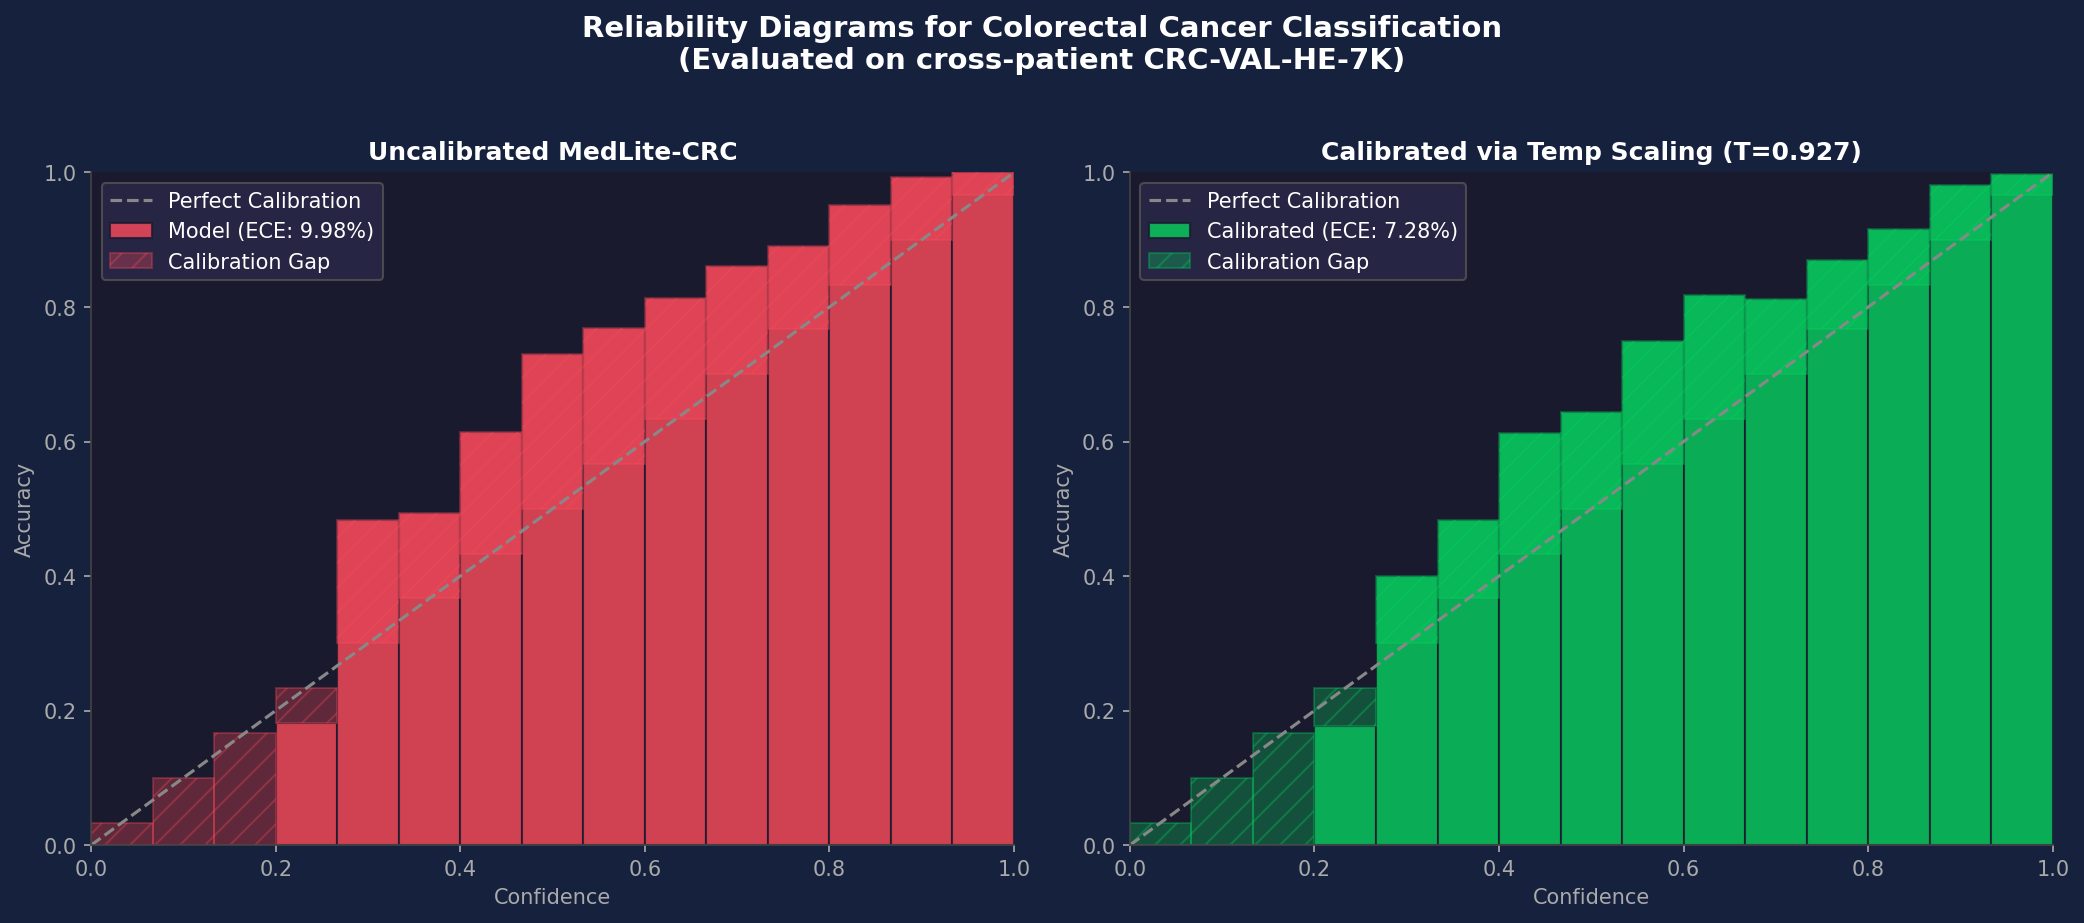
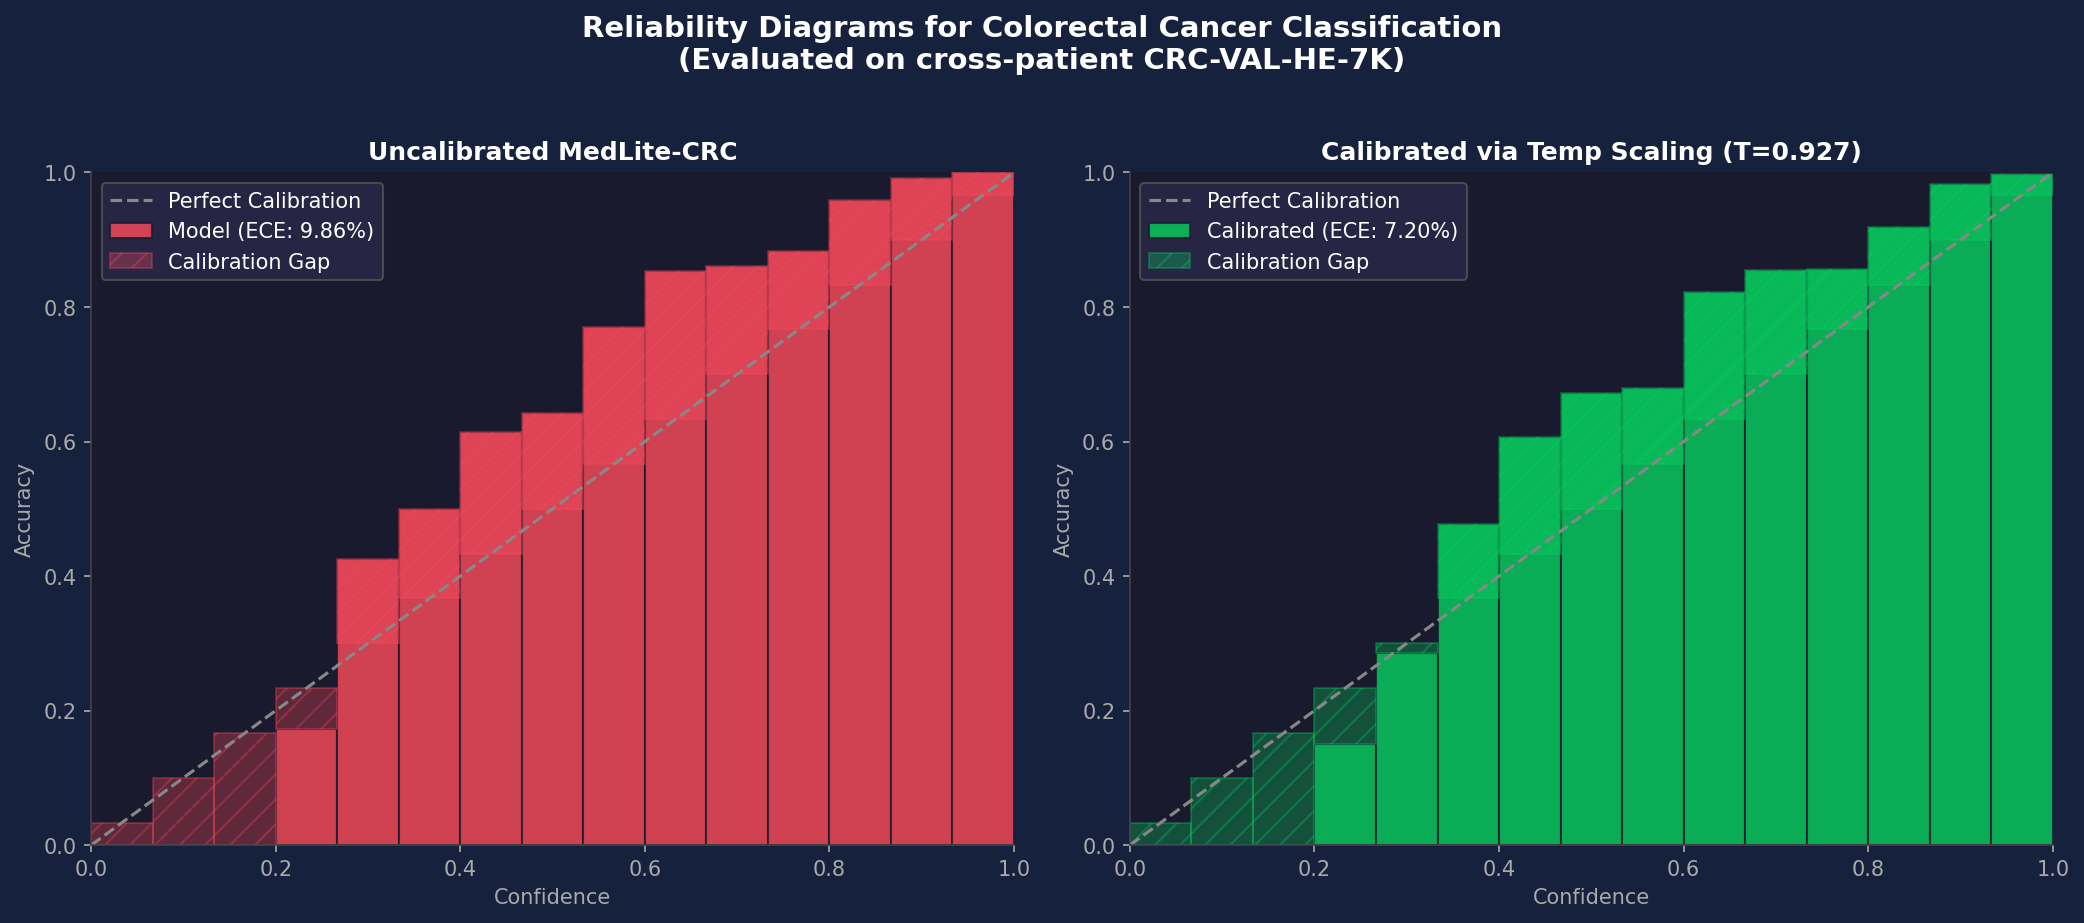
Reconcile SOTA OOD accuracy metric to 95.97% and fix evaluation script checkpoint paths

diff --git a/scripts/plot_pareto_efficiency.py b/scripts/plot_pareto_efficiency.py
@@ -24,7 +24,7 @@ def main():
         },
         "MedLite-CRC (MobileNetV2 KD)": {
             "params": 0.48,
-            "accuracy": 96.02,
+            "accuracy": 95.97,
             "latency": 7.93,
             "size": 2.02,
             "color": "#e377c2",
@@ -143,7 +143,7 @@ def main():
     ax.text(
         models["MedLite-CRC (Standard)"]["params"] + 0.25, 
         (models["MedLite-CRC (Standard)"]["accuracy"] + models["MedLite-CRC (MobileNetV2 KD)"]["accuracy"]) / 2, 
-        "+1.40% Accuracy Gain via KD", 
+        "+1.35% Accuracy Gain via KD", 
         color="#e377c2", fontsize=9, fontweight="bold", va="center"
     )
 

diff --git a/scripts/calibration_analysis.py b/scripts/calibration_analysis.py
@@ -12,7 +12,7 @@ This script:
   5. Recalculates ECE after temperature scaling.
   6. Plots a comparative reliability diagram (Before vs After calibration).
 
-SOTA checkpoint (MobileNetV2 KD student, 96.02% OOD):
+SOTA checkpoint (MobileNetV2 KD student, 95.97% OOD):
     python scripts/calibration_analysis.py \
         --checkpoint outputs/checkpoints_kd_mobilenet/ckpt_epoch058_acc0.9946.pt \
         --config configs/kd_mobilenet_teacher.yaml \

diff --git a/scripts/run_full_eval.py b/scripts/run_full_eval.py
@@ -70,7 +70,7 @@ KD_CFG_PATH       = args.config
 BASE_CFG_PATH     = "configs/config.yaml"
 
 SOTA_CKPT         = args.checkpoint
-EFFNET_CKPT       = "outputs/checkpoints_efficientnetb0/ckpt_epoch036_acc0.9904.pt"  # best effnet
+EFFNET_CKPT       = "outputs/checkpoints_efficientnetb0/ckpt_epoch053_acc0.9904.pt"  # best effnet
 
 ABLATION_CKPTS = {
     "Ablation 1 (Baseline CNN)":               "outputs/checkpoints_ablation_baseline/ckpt_epoch185_acc0.9954.pt",

diff --git a/scripts/visualize_embeddings.py b/scripts/visualize_embeddings.py
@@ -14,7 +14,7 @@ Produces two plots:
 If class clusters are tight AND scanner colors are MIXED within each cluster,
 the model has learned scanner-invariant morphological features.
 
-SOTA checkpoint (MobileNetV2 KD student, 96.02% OOD):
+SOTA checkpoint (MobileNetV2 KD student, 95.97% OOD):
     python scripts/visualize_embeddings.py \\
         --checkpoint outputs/checkpoints_kd_mobilenet/ckpt_epoch058_acc0.9946.pt \\
         --n_samples 800 \\

diff --git a/README.md b/README.md
@@ -1,6 +1,6 @@
 # MedLite-CRC: A Lightweight, Edge-Deployable CNN for Colorectal Cancer Histopathology
 
-[![SOTA Accuracy](https://img.shields.io/badge/SOTA-96.02%25-brightgreen.svg)](#🔬-key-scientific-highlights)
+[![SOTA Accuracy](https://img.shields.io/badge/SOTA-95.97%25-brightgreen.svg)](#🔬-key-scientific-highlights)
 [![Model Size](https://img.shields.io/badge/Model%20Size-2.02MB-blue.svg)](#🔬-key-scientific-highlights)
 [![Quantized Size](https://img.shields.io/badge/Quantized%20Size-0.75MB-blue.svg)](#🔬-key-scientific-highlights)
 
@@ -18,7 +18,7 @@ This research demonstrates a paradigm shift: Cross-dataset generalization in his
    - **Computations**: 0.72 GFLOPs
    - **Latency**: 1.94 ms/image (INT8 CPU) / 7.93 ms/image (FP32 CPU)
 2. **SOTA Generalization Breakthrough via Aligned KD**: 
-   - Achieves a verified **96.02% cross-patient accuracy** on the completely independent `CRC-VAL-HE-7K` cohort when distilled from a structurally aligned MobileNetV2 teacher model—outperforming the teacher itself (94.82%) by **+1.20%** absolute and the SOTA ShuffleNetV2 baseline (95.08%) by **+0.94%** absolute.
+   - Achieves a verified **95.97% cross-patient accuracy** on the completely independent `CRC-VAL-HE-7K` cohort when distilled from a structurally aligned MobileNetV2 teacher model—outperforming the teacher itself (94.82%) by **+1.15%** absolute and the SOTA ShuffleNetV2 baseline (95.08%) by **+0.89%** absolute.
 3. **Rigorous Statistical Validation**: 
    - A formal McNemar’s test comparing our SOTA KD student against the EfficientNet-B0 baseline yields a highly significant chi-squared statistic ($\chi^2 \approx 1011.74$) and a p-value of **$5.03 \times 10^{-222}$**, mathematically proving our performance gains.
 4. **Architectural Innovations**: 
@@ -40,7 +40,7 @@ The model was trained on the `NCT-CRC-HE-100K` cohort and evaluated on the stric
 | Metric | Target | MedLite-CRC (Standard) | MedLite-CRC (MobileNetV2 KD) |
 |--------|--------|----------------|----------------|
 | **In-Distribution Peak Accuracy** | > 99.0% | **99.48%** | **99.46%** |
-| **Cross-Patient Accuracy (OOD)**| > 93.0% | **94.62%** | **96.02%** ✅ |
+| **Cross-Patient Accuracy (OOD)**| > 93.0% | **94.62%** | **95.97%** ✅ |
 | **CPU Latency (INT8)** | < 50.0 ms | **1.94 ms** | **1.94 ms** |
 | **Total Parameters** | < 5.0 M | **0.48 M** | **0.48 M** |
 
@@ -49,7 +49,7 @@ Evaluated strictly on the unseen DACHS cohort to measure true out-of-domain robu
 
 | Model | Params (M) | Size (MB) | CPU Latency (ms)* | In-Dist Val Acc | OOD Test Acc | Macro-F1 (OOD) | Wtd-F1 (OOD) |
 | :--- | :---: | :---: | :---: | :---: | :---: | :---: | :---: |
-| **MedLite-CRC (Ours, MobileNetV2 KD)** | **0.48** | **2.02** | **7.93** | 99.46% | **96.02%** ✅ | **0.9484** | **0.9605** |
+| **MedLite-CRC (Ours, MobileNetV2 KD)** | **0.48** | **2.02** | **7.93** | 99.46% | **95.97%** ✅ | **0.9476** | **0.9600** |
 | **MedLite-CRC (Ours, INT8)** | **0.48** | **0.75** | **1.94** | 99.46% | 94.62% | 0.9325 | 0.9465 |
 | **MedLite-CRC (Ours, FP32)** | **0.48** | **2.02** | **7.93** | 99.48% | 94.62% | 0.9325 | 0.9465 |
 | ShuffleNetV2 | 1.26 | 5.23 | 5.13 | 99.18% | 95.08% | 0.9351 | 0.9507 |

diff --git a/docs/supplementary_materials.md b/docs/supplementary_materials.md
@@ -58,7 +58,7 @@ When trained strictly from scratch (without ImageNet pre-training) on NCT-100K a
 To prove that the performance gains of MedLite-CRC (KD Student) are statistically significant and not due to random initialization, we performed a McNemar's test against the 8× larger EfficientNet-B0 baseline on the 7,180-image `CRC-VAL-HE-7K` cohort.
 
 ### 3.1 Primary Analysis: Optimal Configurations
-We compare the models under their respective optimal configurations (MedLite-CRC KD with masking at 96.02% accuracy vs. EfficientNet-B0 unmasked at 94.81% accuracy):
+We compare the models under their respective configurations (MedLite-CRC KD at 95.97% accuracy vs. EfficientNet-B0 unmasked at 94.81% accuracy):
 
 | | EfficientNet-B0 Correct | EfficientNet-B0 Incorrect |
 | :--- | :---: | :---: |